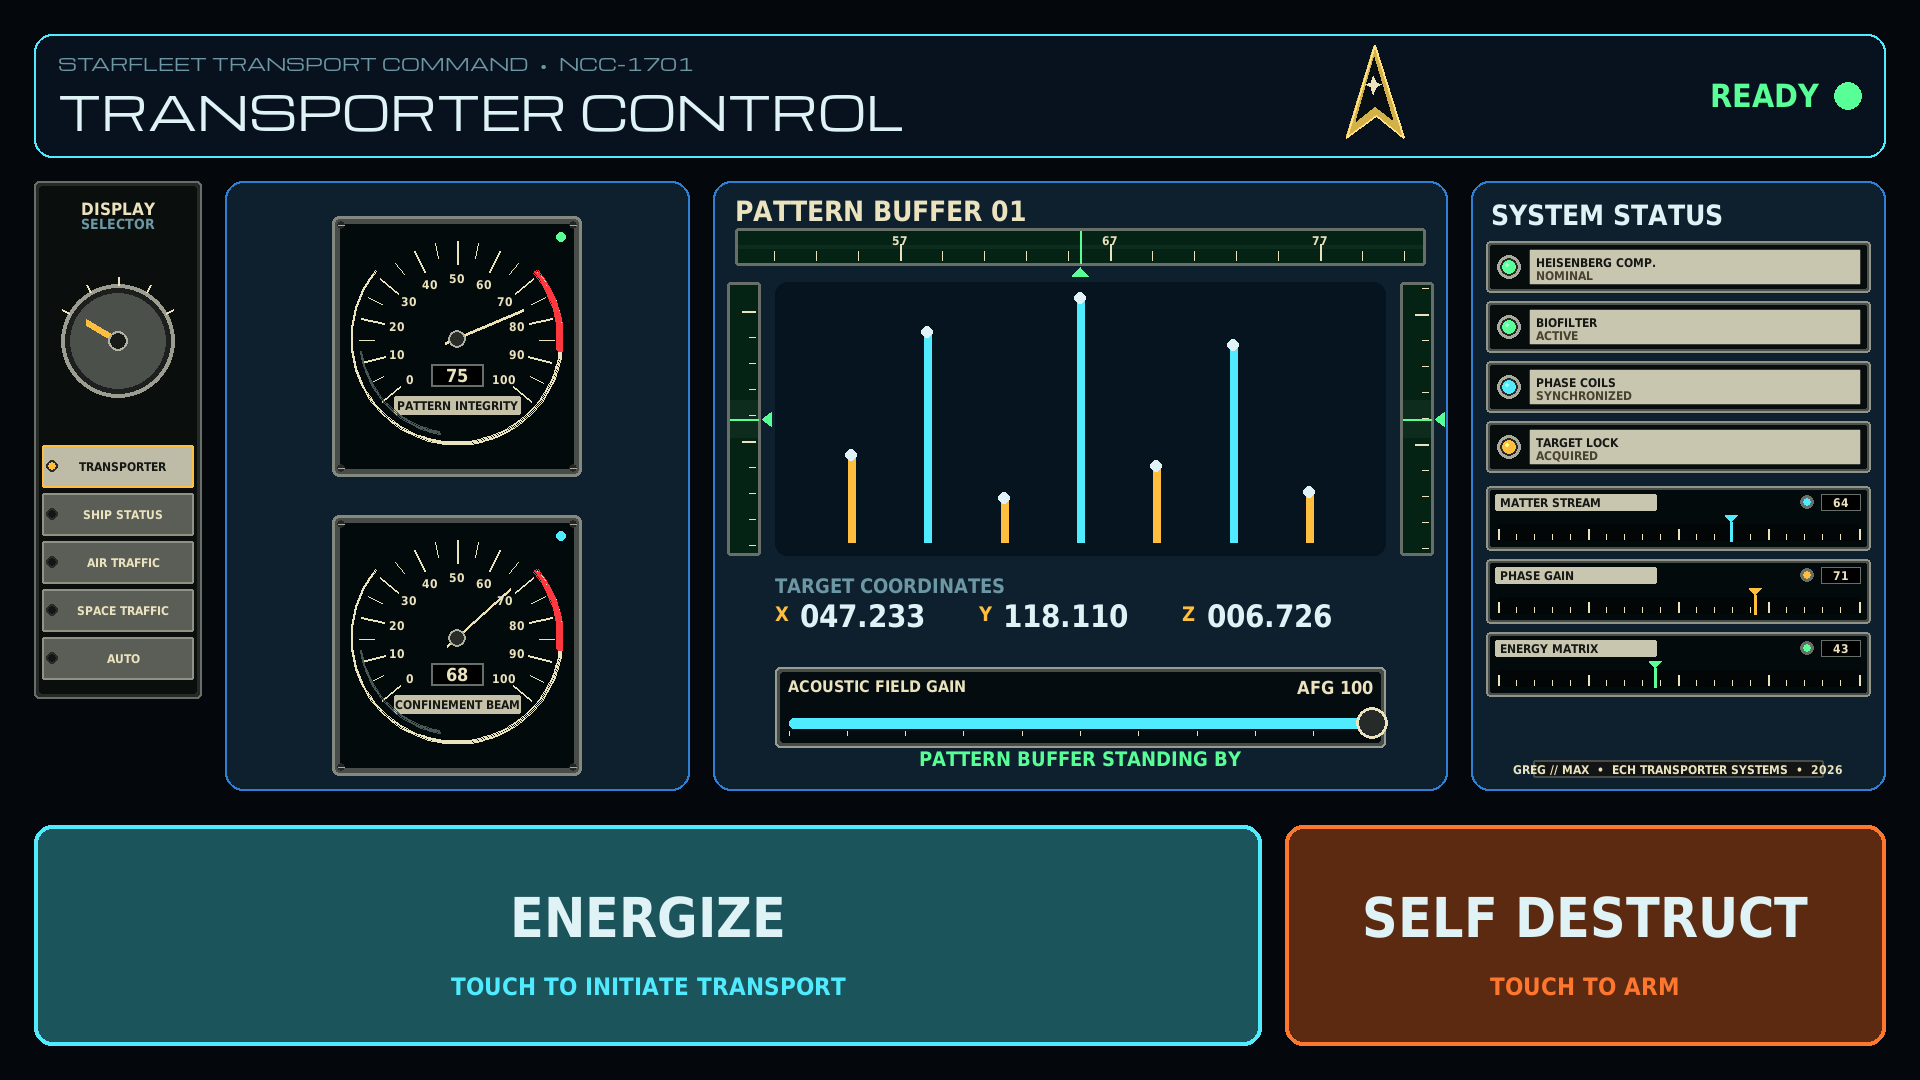
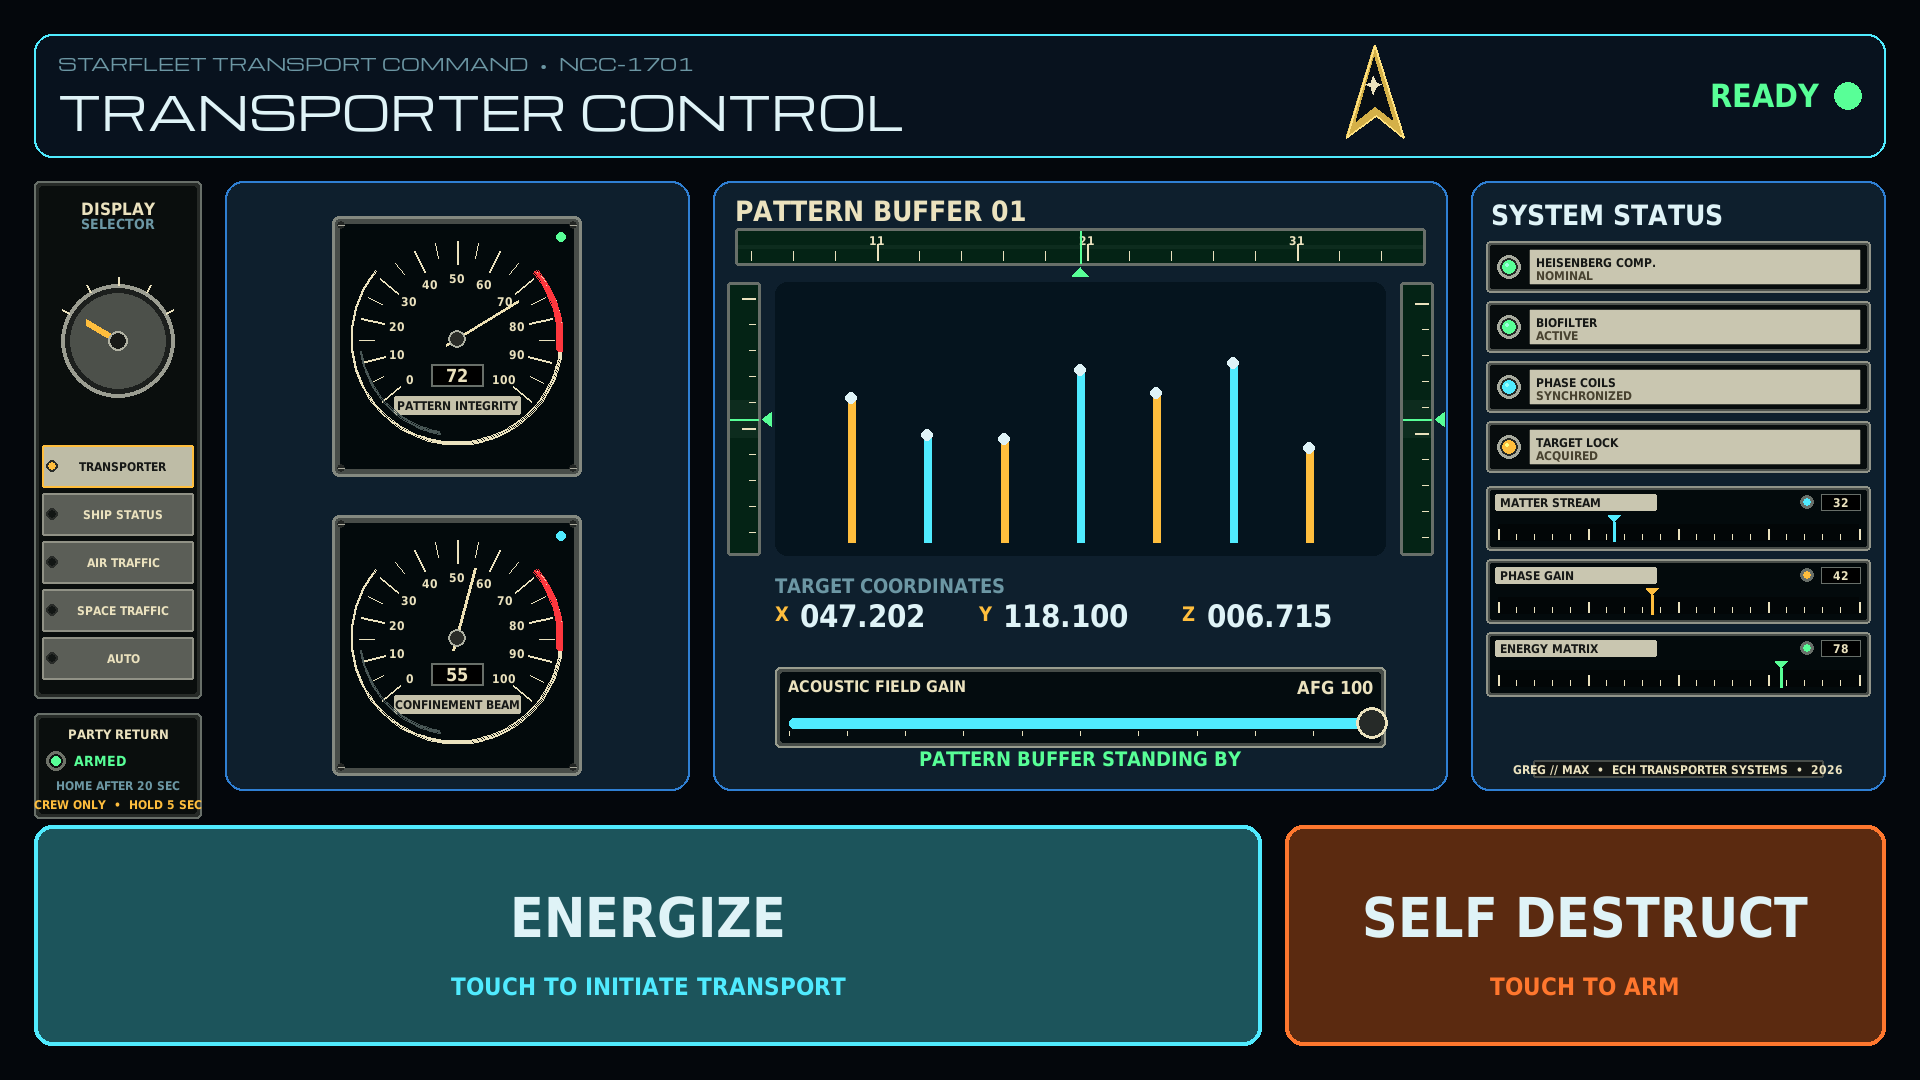
Add self-healing party return mode

diff --git a/startrek.py b/startrek.py
@@ -42,6 +42,8 @@ MODE = "both"
 TEST_MODE = "--test" in sys.argv
 WINDOWED = "--windowed" in sys.argv
 OFFICE_IDLE_SECONDS = 120.0
+PARTY_RETURN_SECONDS = 20.0
+PARTY_OVERRIDE_SECONDS = 300.0
 for arg in sys.argv:
     if arg.startswith("--mode="):
         MODE = arg.split("=", 1)[1].lower()
@@ -64,9 +66,11 @@ abort_count = 0
 ui_state, status_detail = "READY", "PATTERN BUFFER STANDING BY"
 countdown_value = None
 transport_progress = flash_until = arm_until = 0.0
-shutdown_hold_started = shutdown_confirm_until = 0.0
+shutdown_hold_started = shutdown_confirm_until = party_return_hold_started = 0.0
 shutdown_pending = False
 power_action_pending = None
+party_return_enabled = True
+party_return_disabled_until = 0.0
 afg_dragging = False
 afg_value = 72
 afg_pending = None
@@ -192,6 +196,25 @@ def select_display_mode(mode):
     display_mode = mode
     mark_activity()
     save_display_mode()
+
+def party_return_home(now):
+    """Restore a predictable guest-ready console without interrupting effects."""
+    global display_mode, status_page, environment_sensor_page, house_system_page
+    global battery_status_page, radar_range_nm, radar_weather_enabled, selected_aircraft
+    global selected_satellite, satellite_strip_page, arm_until
+    if (any_sequence_active or ui_state != "READY" or shutdown_confirm_until > now or
+            shutdown_pending or countdown_value is not None):
+        return False
+    display_mode, status_page = "TRANSPORTER", "NETWORK"
+    environment_sensor_page = house_system_page = battery_status_page = 0
+    radar_range_nm, radar_weather_enabled = 80, False
+    selected_aircraft = selected_satellite = None
+    satellite_strip_page = 0
+    arm_until = 0
+    if flight_telemetry:
+        flight_telemetry.set_weather_enabled(False)
+    save_display_mode()
+    return True
 
 def ship_status_active(now):
     if (any_sequence_active or ui_state != "READY" or shutdown_confirm_until > now or
@@ -786,6 +809,40 @@ def draw_mode_selector(surface, rect):
         txt(surface, option, rect.w * .071,
             (22, 24, 22) if selected else CREAM,
             (segment.centerx + 5, segment.centery), "center", True)
+    draw_party_return(surface, rect)
+
+def party_return_rect(selector_rect):
+    return pygame.Rect(selector_rect.x, selector_rect.bottom + 14,
+                       selector_rect.w, int(selector_rect.h * .205))
+
+def draw_party_return(surface, selector_rect):
+    """Draw the guarded, self-rearming party-mode home switch."""
+    rect = party_return_rect(selector_rect)
+    panel(surface, rect, (38, 42, 39), BEZEL, 5)
+    inner = rect.inflate(-10, -10)
+    pygame.draw.rect(surface, (10, 14, 13), inner, border_radius=3)
+    txt(surface, "PARTY RETURN", rect.w * .082, CREAM,
+        (rect.centerx, rect.y + 13), "midtop", True)
+    lamp = (rect.x + 22, rect.y + 48)
+    color = GREEN if party_return_enabled else RED
+    pygame.draw.circle(surface, (110, 114, 104), lamp, 10)
+    pygame.draw.circle(surface, (15, 19, 17), lamp, 7)
+    pygame.draw.circle(surface, color, lamp, 5)
+    state = "ARMED" if party_return_enabled else "OVERRIDE"
+    txt(surface, state, rect.w * .084, color, (rect.x + 40, rect.y + 48), "midleft", True)
+    if party_return_enabled:
+        detail = "HOME AFTER 20 SEC"
+    else:
+        remaining = max(0, int(party_return_disabled_until - time.monotonic()) + 1)
+        detail = f"AUTO REARM {remaining // 60}:{remaining % 60:02d}"
+    txt(surface, detail, rect.w * .065, MUTED,
+        (rect.centerx, rect.y + 72), "center", True)
+    txt(surface, "CREW ONLY  •  HOLD 5 SEC", rect.w * .047, AMBER,
+        (rect.centerx, rect.bottom - 15), "center", True)
+    if party_return_hold_started:
+        progress = min(1.0, (time.monotonic() - party_return_hold_started) / 5.0)
+        pygame.draw.rect(surface, AMBER,
+                         (inner.x, inner.bottom - 4, int(inner.w * progress), 3))
 
 def mode_at_position(pos, size):
     rect = layout(size)["mode_selector"]
@@ -798,6 +855,9 @@ def mode_at_position(pos, size):
     row_h = max(30, int((rect.bottom - row_top - 10) / len(options)))
     index = min(len(options) - 1, max(0, int((pos[1] - row_top) / row_h)))
     return options[index]
+
+def party_return_at_position(pos, size):
+    return party_return_rect(layout(size)["mode_selector"]).collidepoint(pos)
 
 def status_nav_layout(size):
     r = layout(size)
@@ -1116,6 +1176,9 @@ def draw_console(surface, now):
         if shutdown_hold_started:
             hold_progress = min(1.0, (now - shutdown_hold_started) / 5.0)
             pygame.draw.rect(surface, AMBER, (maker_plate.x, maker_plate.bottom + 3, int(maker_plate.w * hold_progress), 3))
+    # The transporter page draws its large instrument panels after the selector;
+    # repaint the guard last so its lower enclosure cannot be obscured.
+    draw_party_return(surface, r["mode_selector"])
     if countdown_value is None and self_destruct_active:
         txt(surface, f"ABORT {abort_count}/5", h * .038, RED, (r["right"].centerx, r["right"].bottom - 42), "center", True)
 
@@ -2637,8 +2700,13 @@ def handle_touch(pos, now):
                 arm_until = now + 4.0
 
 def handle_press(pos, now):
-    global shutdown_hold_started, afg_dragging
+    global shutdown_hold_started, party_return_hold_started, afg_dragging
     r = layout(screen.get_size())
+    if (party_return_at_position(pos, screen.get_size()) and not any_sequence_active and
+            shutdown_confirm_until <= now and not shutdown_pending):
+        party_return_hold_started = now
+        mark_activity()
+        return
     if (mode_at_position(pos, screen.get_size()) or ship_status_active(now) or
             special_display_active(now)):
         handle_touch(pos, now)
@@ -2655,8 +2723,9 @@ def handle_press(pos, now):
         handle_touch(pos, now)
 
 def handle_release():
-    global shutdown_hold_started, afg_dragging
+    global shutdown_hold_started, party_return_hold_started, afg_dragging
     shutdown_hold_started = 0
+    party_return_hold_started = 0
     afg_dragging = False
 
 if not TEST_MODE and GPIO:
@@ -2711,6 +2780,21 @@ try:
         if shutdown_hold_started and now - shutdown_hold_started >= 5.0:
             shutdown_hold_started = 0
             shutdown_confirm_until = now + 10.0
+        if party_return_hold_started and now - party_return_hold_started >= 5.0:
+            party_return_hold_started = 0
+            if party_return_enabled:
+                party_return_enabled = False
+                party_return_disabled_until = now + PARTY_OVERRIDE_SECONDS
+            else:
+                party_return_enabled = True
+                party_return_disabled_until = 0
+            mark_activity()
+        if not party_return_enabled and now >= party_return_disabled_until:
+            party_return_enabled = True
+            party_return_disabled_until = 0
+        if (party_return_enabled and display_mode != "TRANSPORTER" and
+                now - last_activity >= PARTY_RETURN_SECONDS):
+            party_return_home(now)
         if arm_until and now >= arm_until:
             arm_until = 0
         if shutdown_confirm_until and now >= shutdown_confirm_until and not shutdown_pending:

diff --git a/README.md b/README.md
@@ -30,6 +30,7 @@ Designed and built by Greg Gorman with Max (OpenAI Codex).
 - Original two-tone retro computer bonk as the Sad Mac appears
 - Low-frequency core-breach impact layered beneath the spoken kaboom
 - Full-screen pulsing red self-destruct numerals with persistent abort guidance
+- Self-healing **PARTY RETURN** guard that restores Transporter after 20 idle seconds
 - Illuminated countdown-screen ABORT control aligned exactly with its live touch target
 - **ACOUSTIC FIELD GAIN** touchscreen slider controlling the real PipeWire output from 0–100%
 - Persistent five-position **TRANSPORTER / SHIP STATUS / AIR TRAFFIC / SPACE TRAFFIC / AUTO** selector
@@ -223,6 +224,16 @@ survives application and Raspberry Pi restarts. In AUTO, the first touchscreen
 tap on Ship Status wakes the transporter and is consumed; a second tap is
 required to activate a control. GPIO buttons remain immediate, and active
 transporter or self-destruct sequences override every telemetry display.
+
+For unattended party operation, the guarded **PARTY RETURN** control beneath
+the selector is armed whenever the application starts. Guests may explore any
+display, page, radar range, target, or flight strip; after 20 seconds without a
+touch, the console restores **TRANSPORTER**, resets sub-pages and selections,
+returns the radar to 80 NM, and clears an unconfirmed self-destruct arm. Active
+transporter and self-destruct sequences are never interrupted. A deliberate
+five-second hold grants a five-minute crew override, after which the guard
+re-arms itself automatically. Ordinary taps and button-mashing cannot disable
+it, and restarting the application always restores the armed state.
 
 Ship Status has four large touchscreen sub-pages:
 
